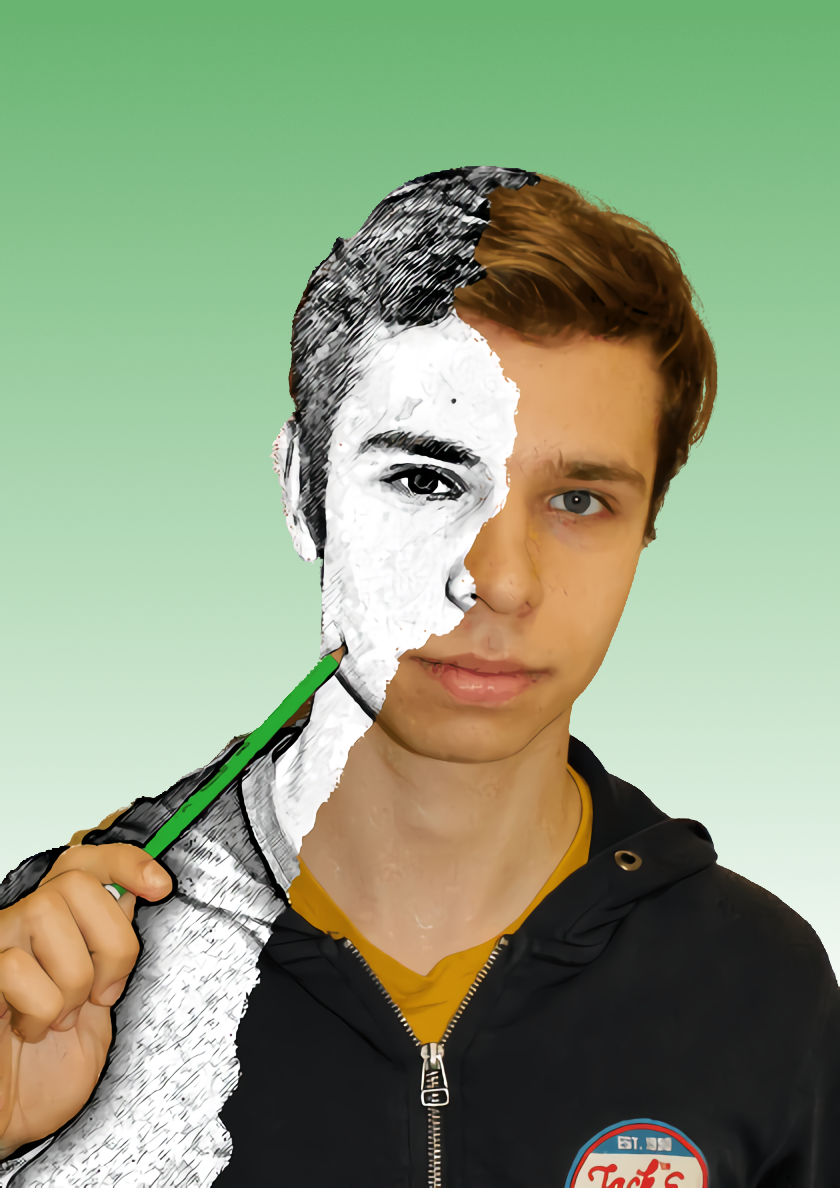
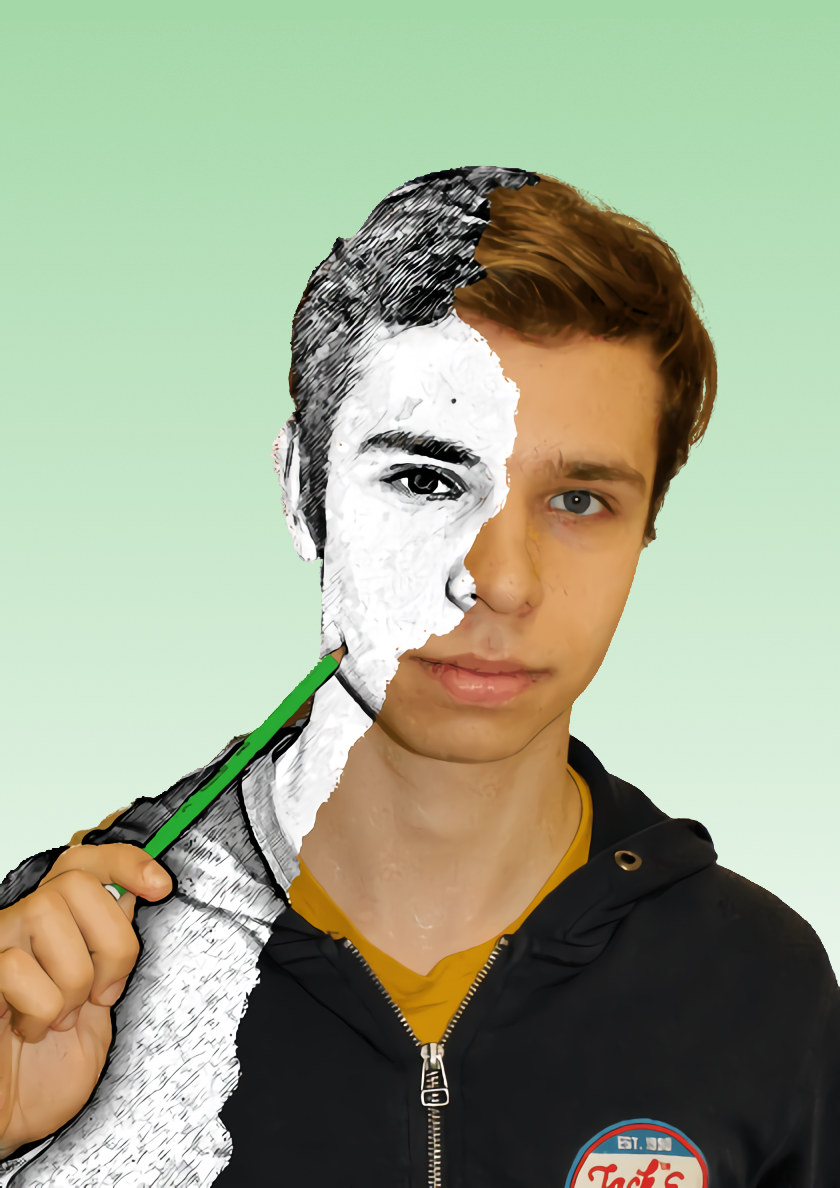
added picture

diff --git a/index.html b/index.html
@@ -72,7 +72,7 @@
         <p class="items">Ik ben ryan</p>
       </article>
       <figure>
-        <img src="img/profile1.png" alt="profile">
+        <img src="img/Photo_into_photo(1).png" alt="profile">
       </figure>
     </section>
   </main>

diff --git a/css/style.css b/css/style.css
@@ -27,8 +27,8 @@ main {
 }
 
 #home img {
-    width: 60%;
-    box-shadow: 0px 0px 50px 40px #6fcf9765;
+    width: 80%;
+
 }
 
 .items {
